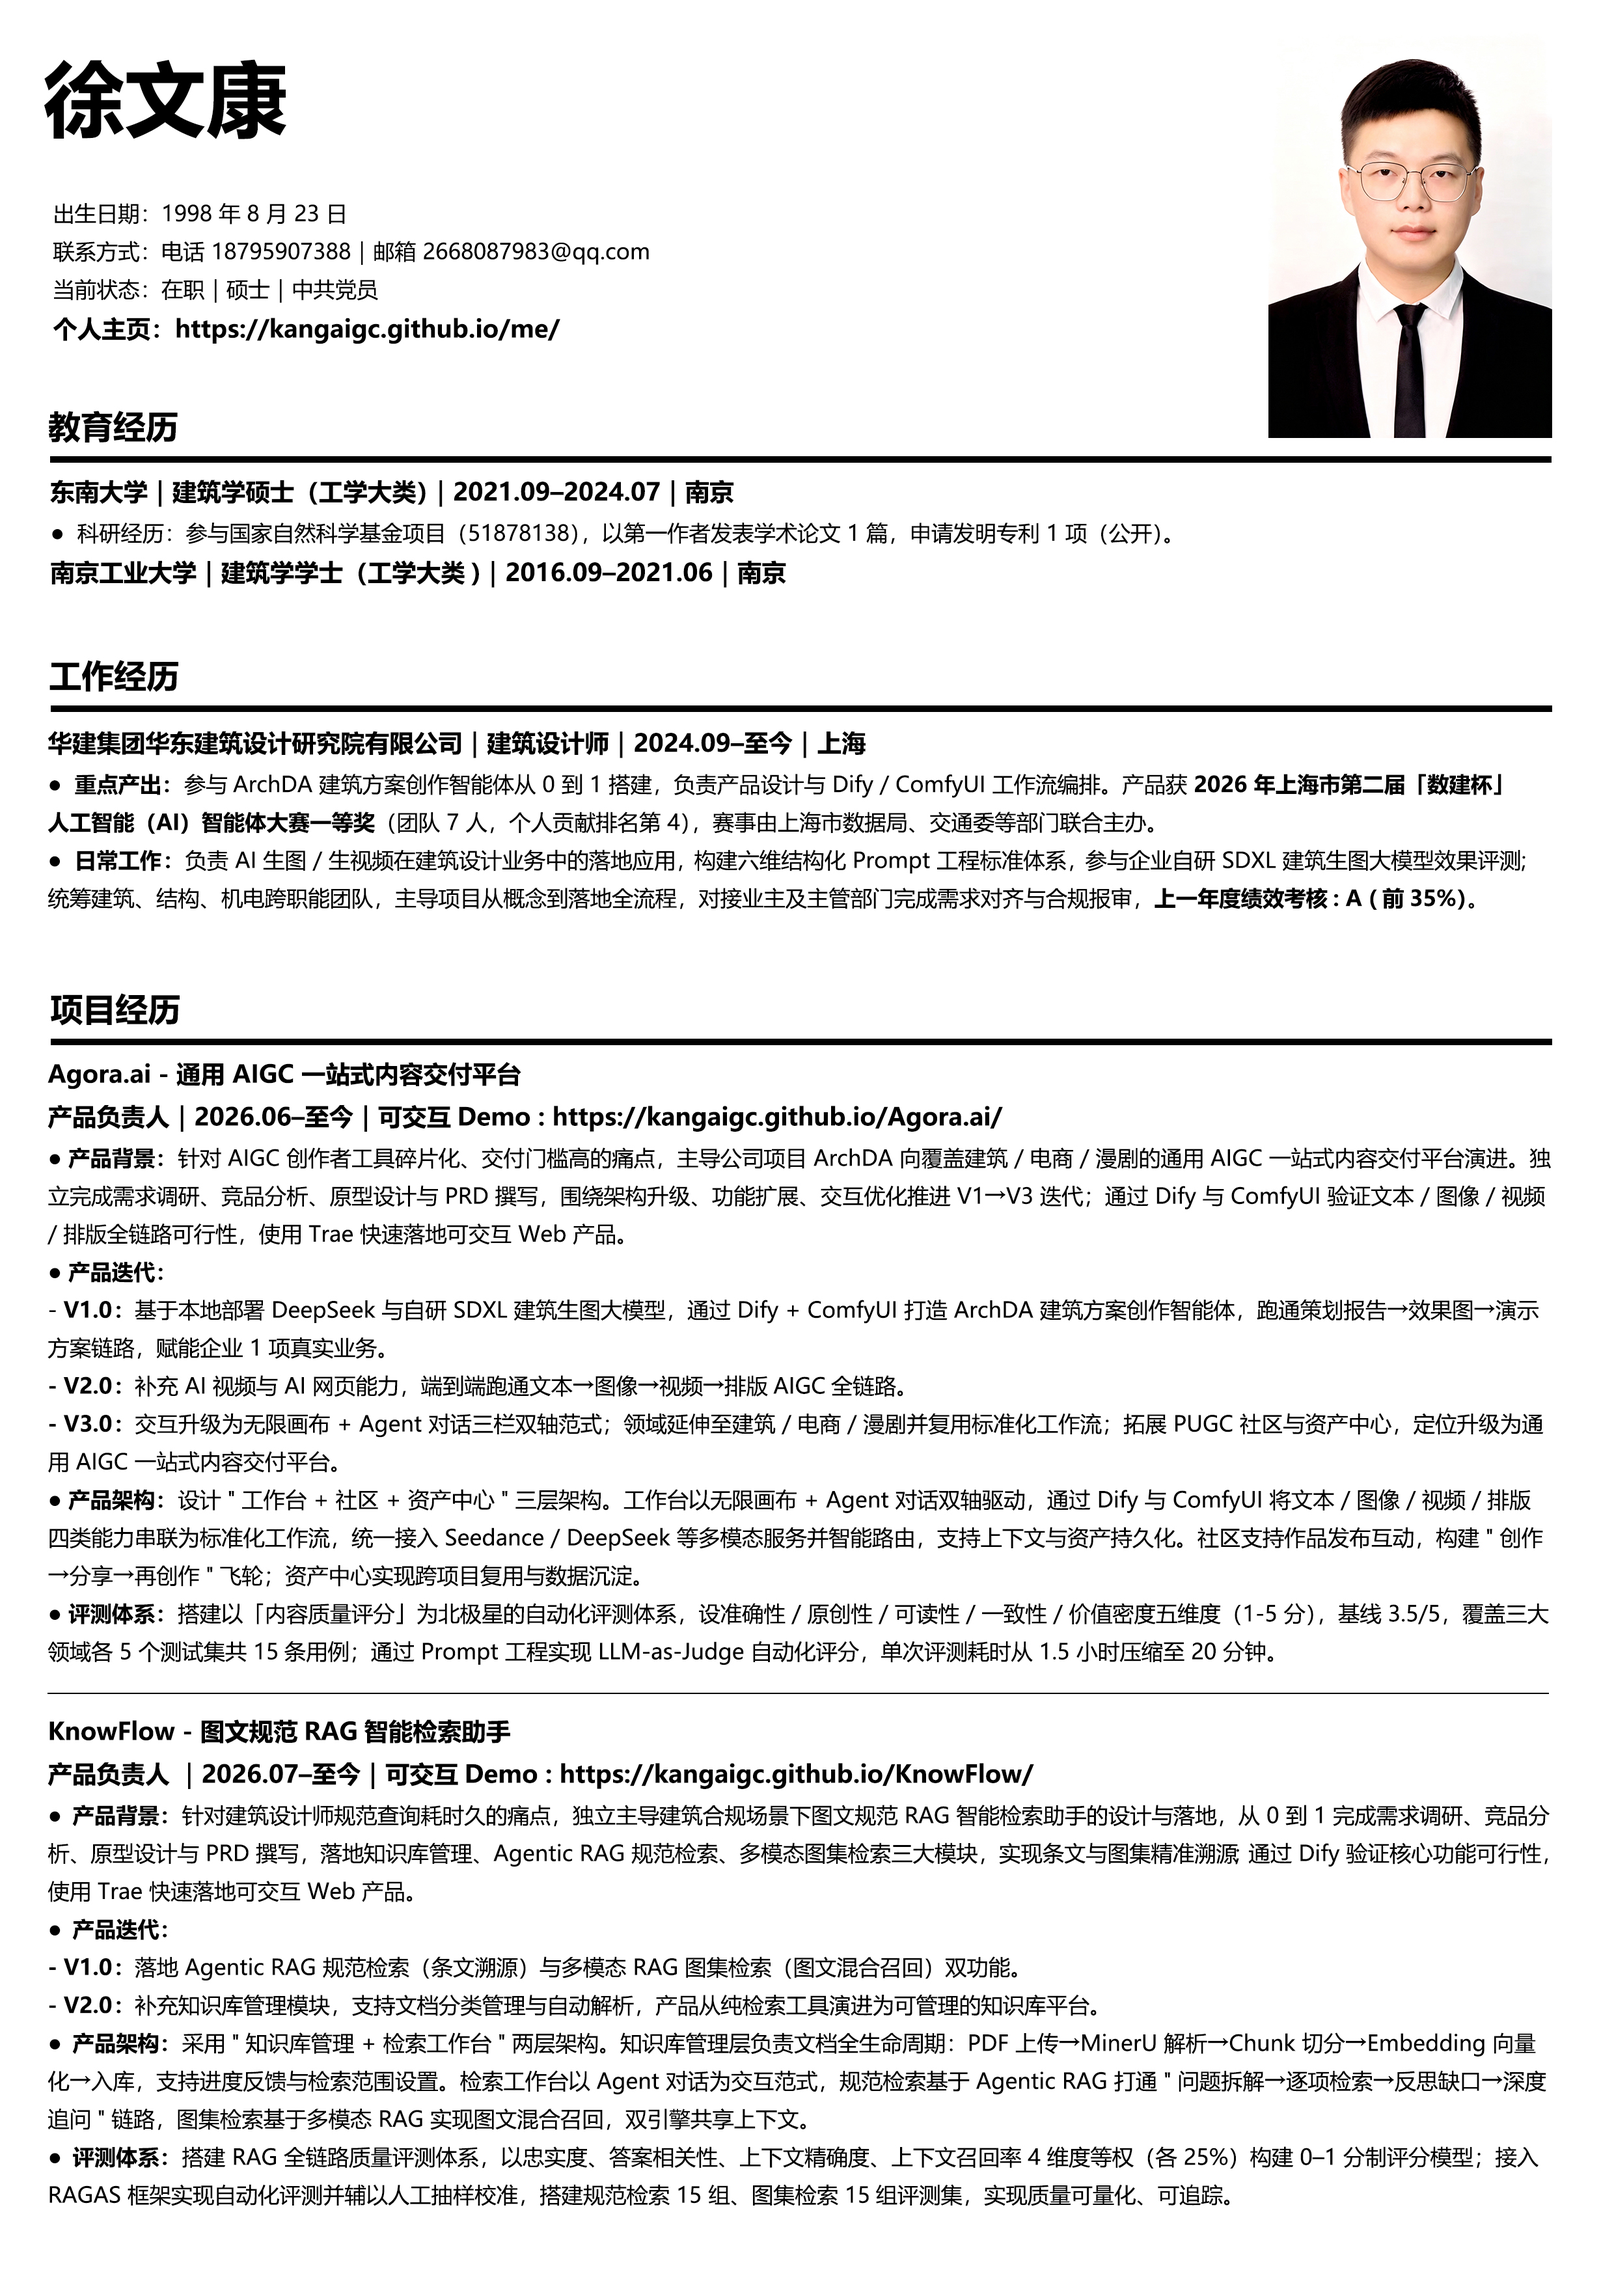
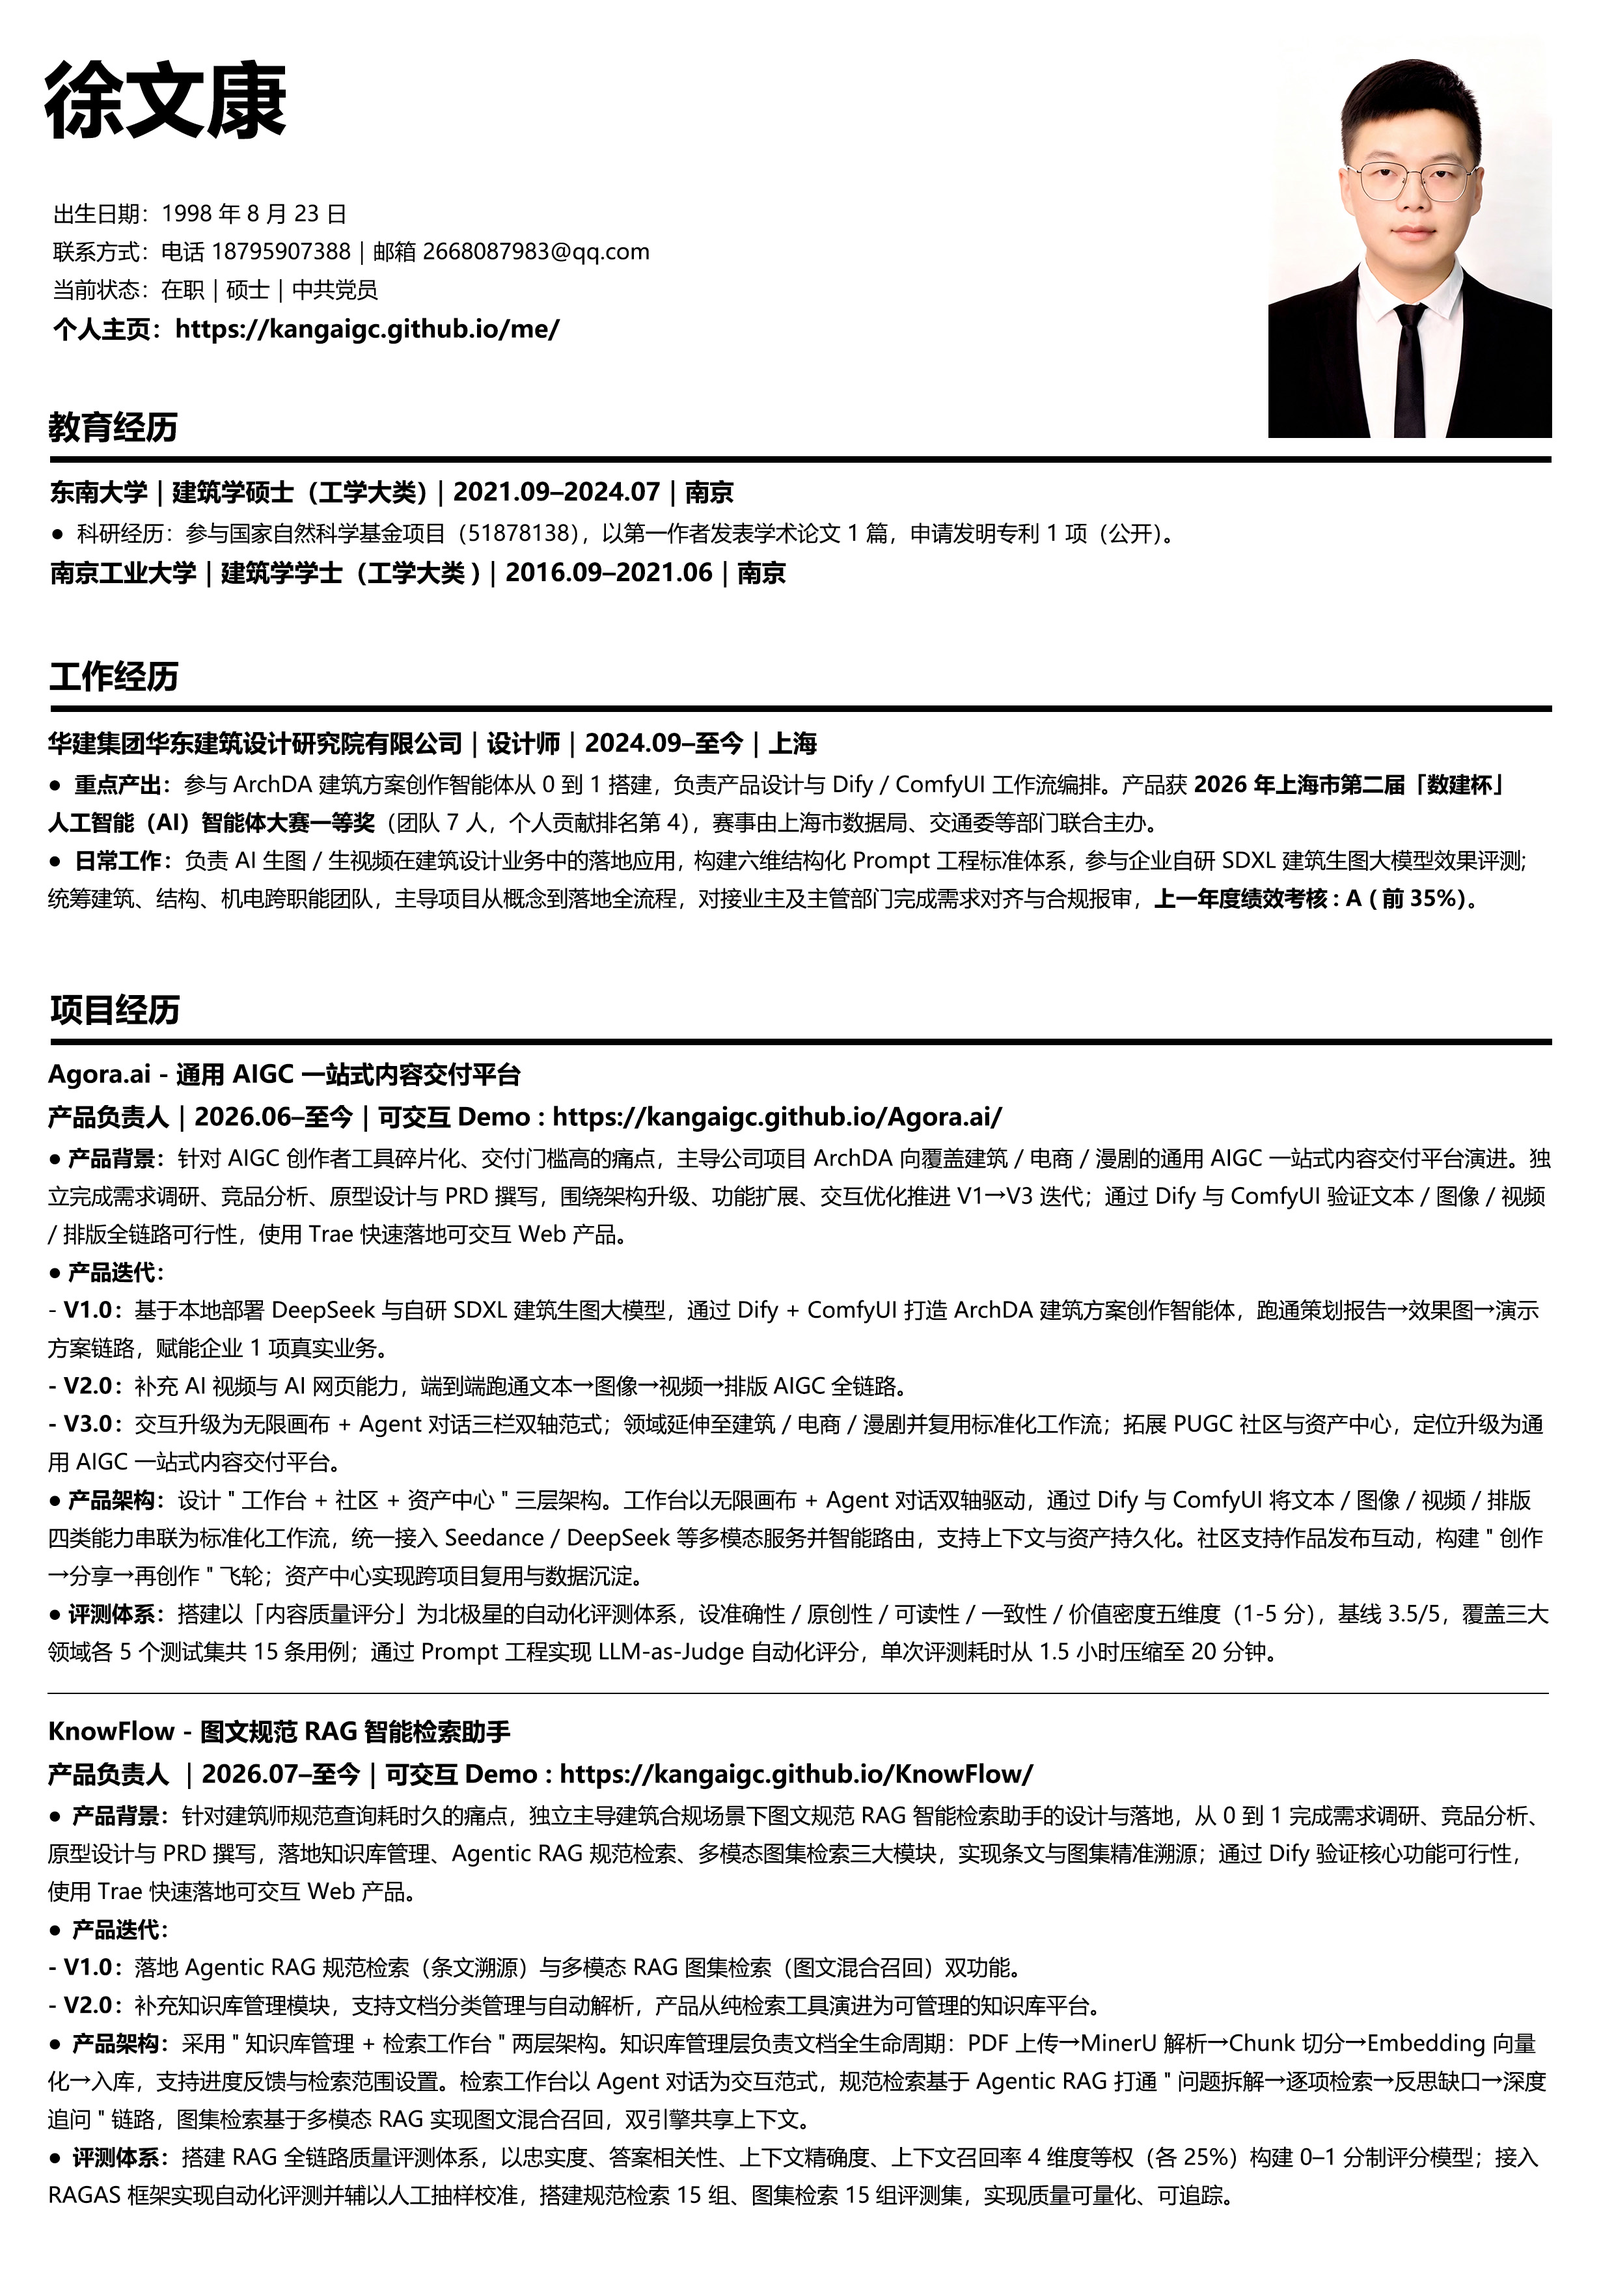
Resume: update resume image to v2 (new content)

Changed region(s): [[0.031, 0.7768, 0.9625, 0.8389], [0.3105, 0.3107, 0.5278, 0.3418]]

diff --git a/src/app/resume/page.tsx b/src/app/resume/page.tsx
@@ -2,8 +2,8 @@
 
 import { Navbar } from "@/components/Navbar";
 
-/** 简历长图（TOS 直链：CDN 加速 + 1 年强缓存，替代原 GitHub Pages 慢加载） */
-const RESUME_IMG = 'https://demovideo.tos-cn-shanghai.volces.com/site-media/resume.jpg';
+/** 简历长图（TOS 直链：CDN 加速 + 1 年强缓存；文件更新时递增版本号以绕过缓存） */
+const RESUME_IMG = 'https://demovideo.tos-cn-shanghai.volces.com/site-media/resume-v2.jpg';
 
 export default function ResumePage() {
   return (
